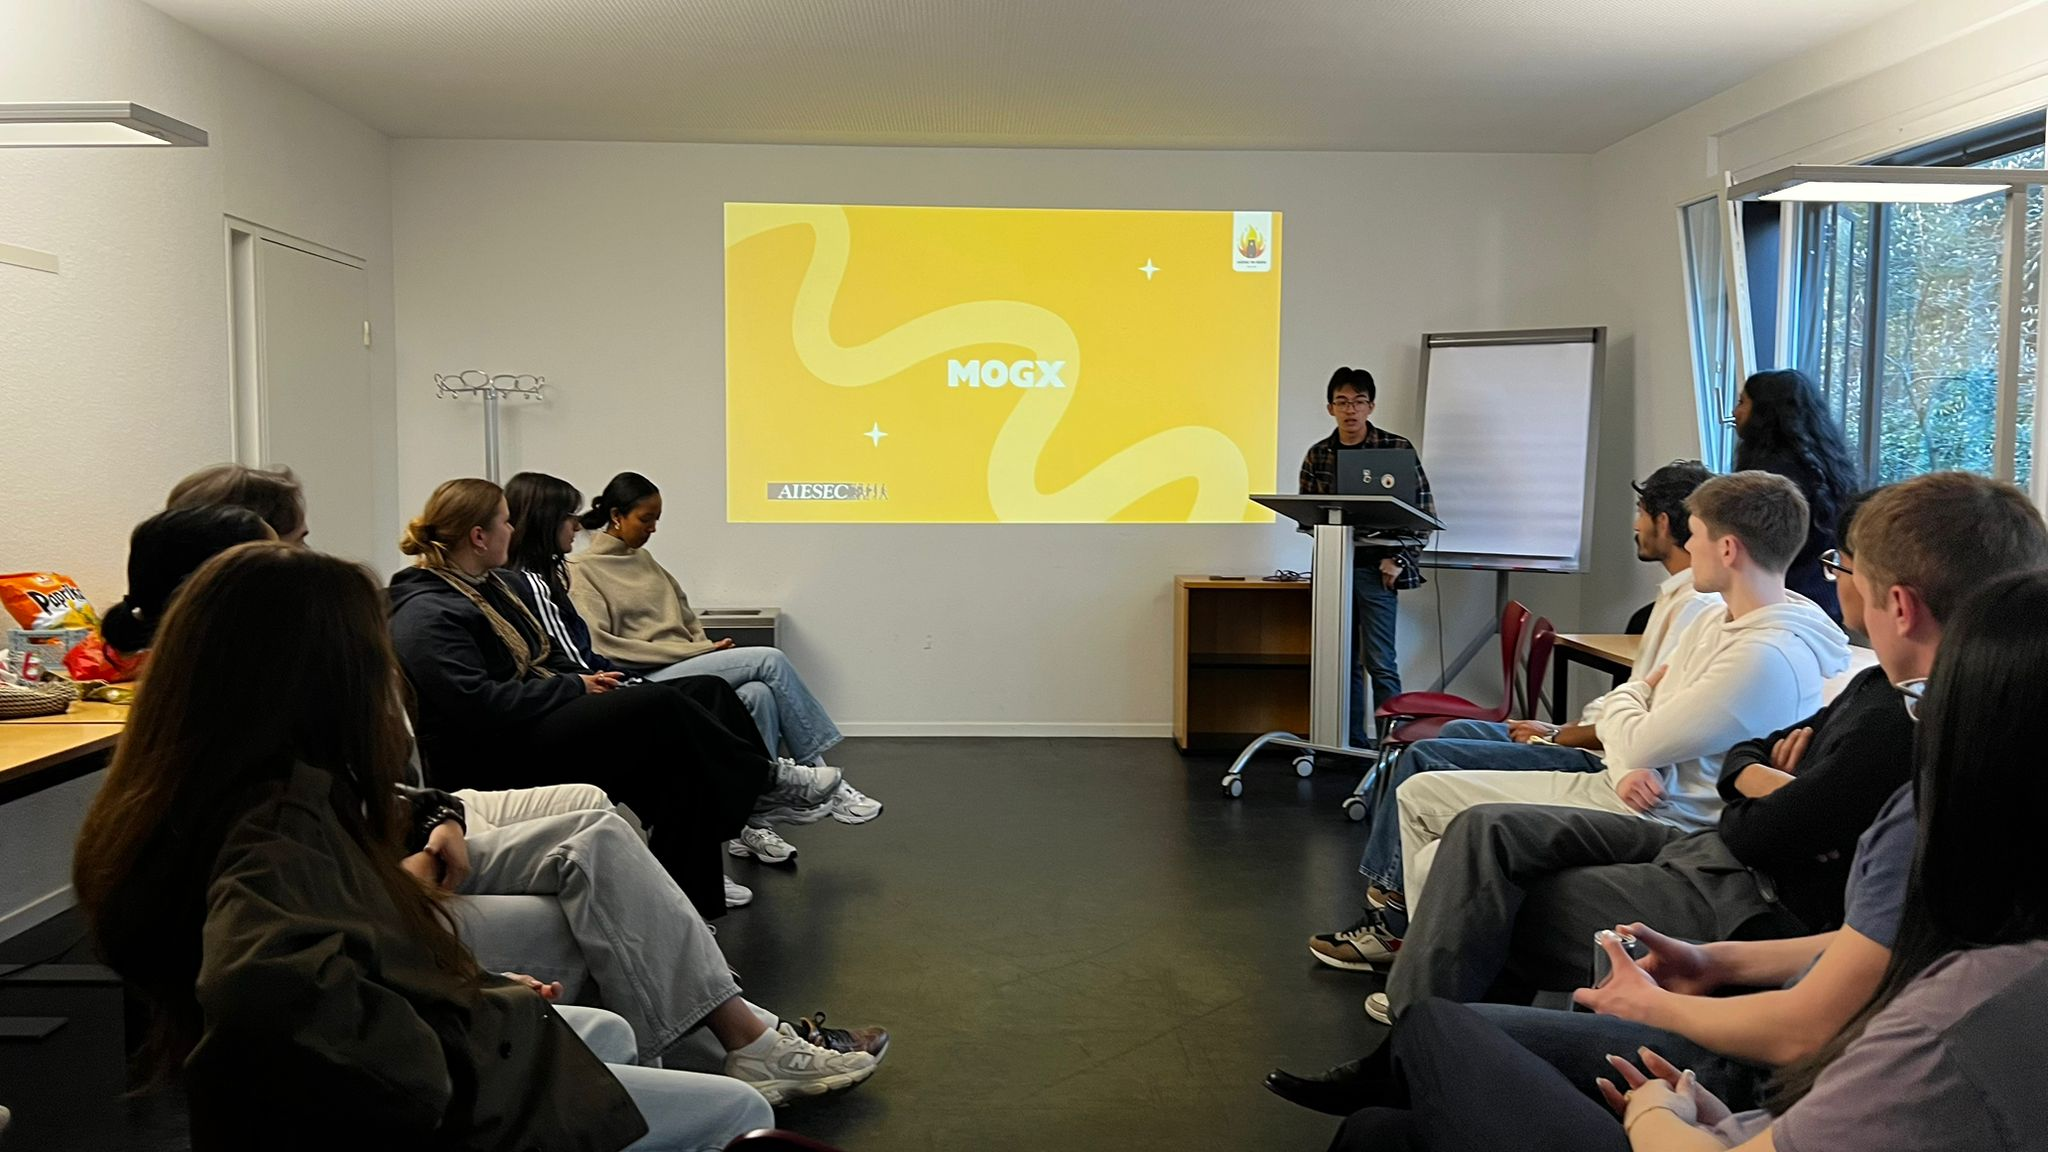
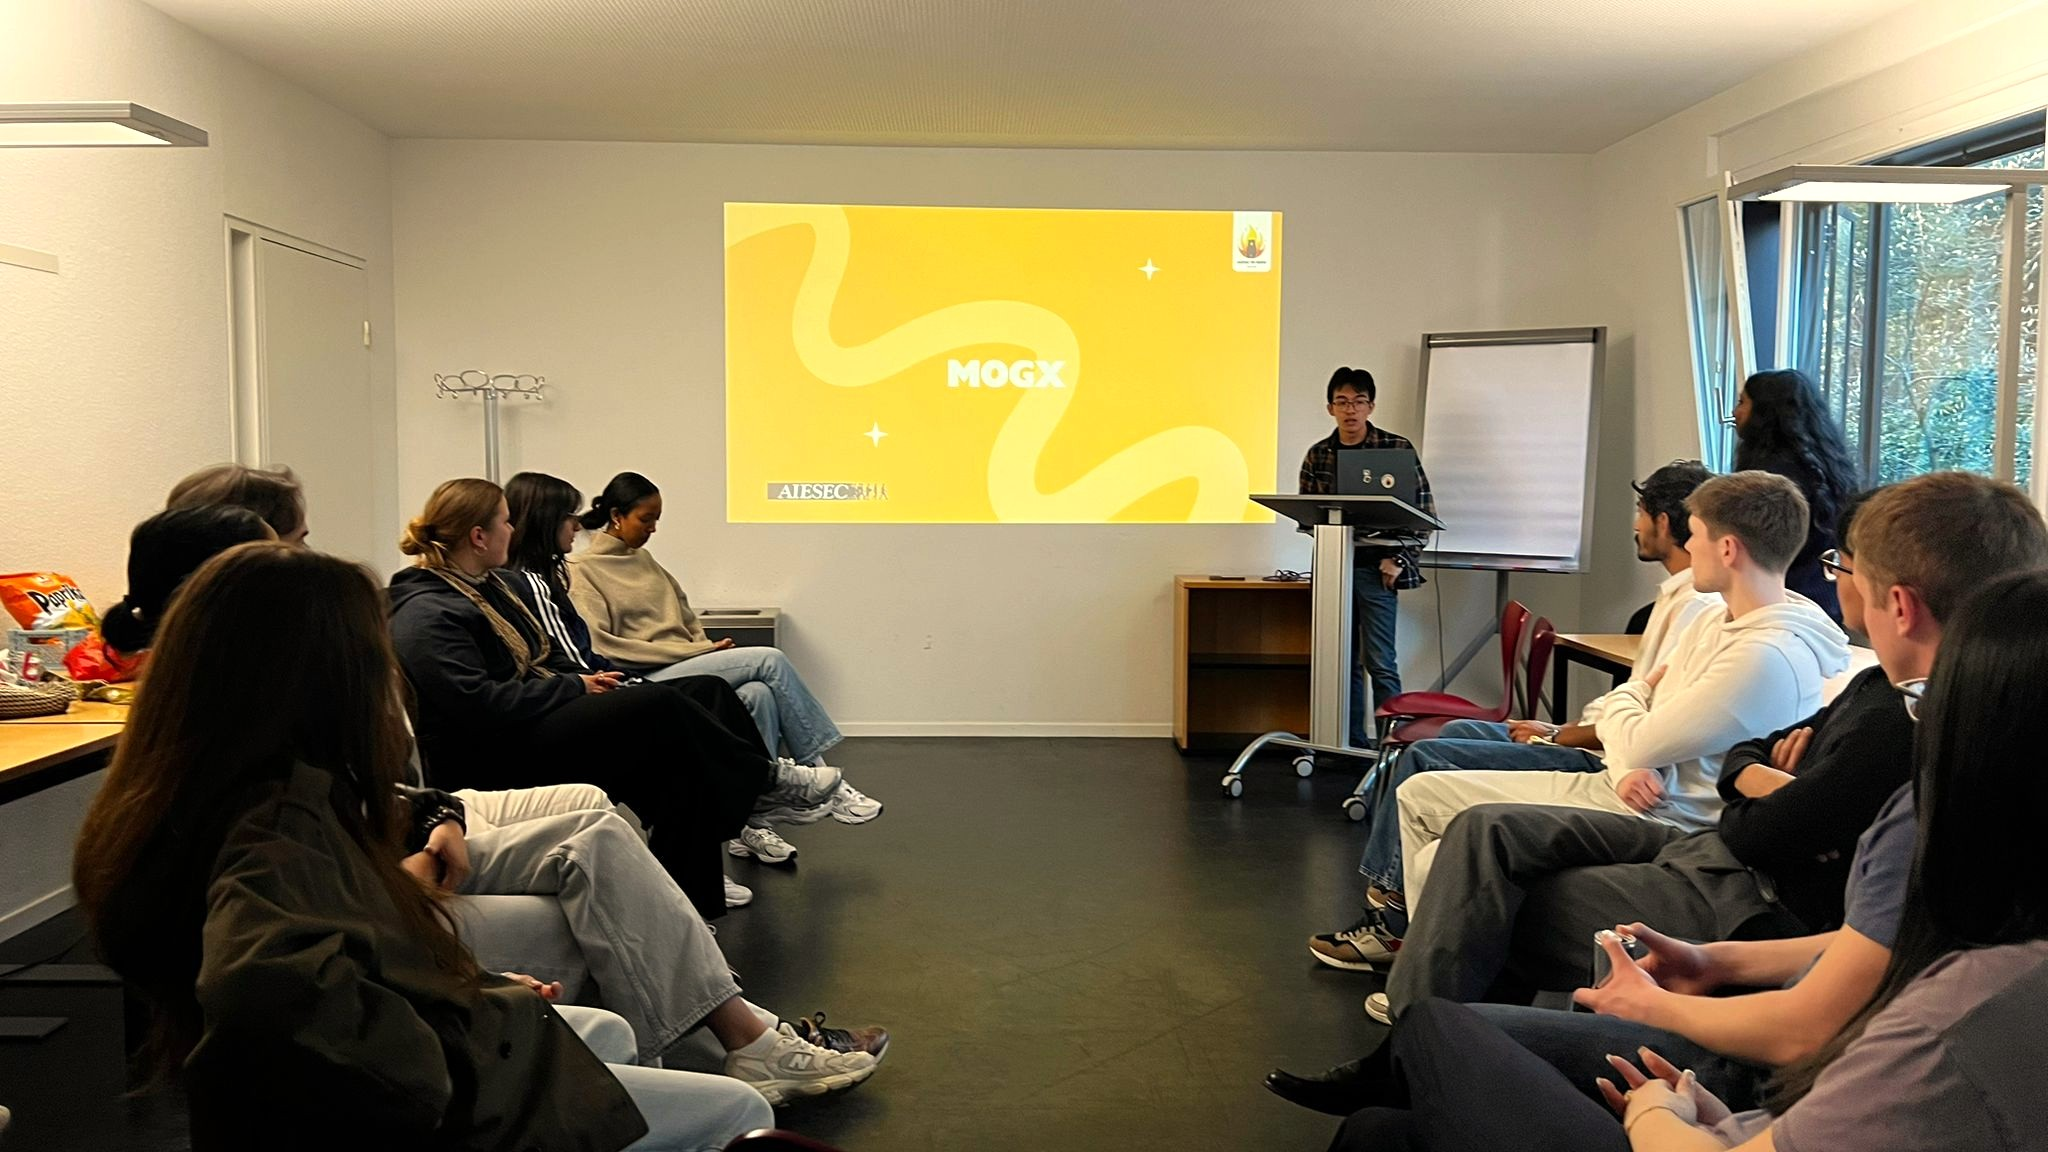
Wrote About Us page, added images.

diff --git a/about-us.html b/about-us.html
@@ -7,18 +7,27 @@ permalink: /about-us/
 <article class="page about-page container">
   <h1>About AIESEC</h1>
   <!-- PLACEHOLDER images -->
-  <img src="{{ '/assets/images/about-1-placeholder.jpg' | relative_url }}" alt="AIESEC members" class="about-image">
+  <img src="{{ '/assets/images/kick-off-6.jpg' | relative_url }}" alt="AIESEC members" class="about-image">
 
   <p>AIESEC is the world's largest youth-led organization, present in over 100 countries and territories.
   We develop leadership qualities in young people through international internships, volunteer exchanges,
   and leadership opportunities.</p>
 
-  <p>AIESEC in Bern is our local chapter, connecting students and young professionals in the Bern region
-  with global exchange opportunities and a community focused on personal growth, cultural exchange, and
-  social impact.</p>
+  <p>Here we AIESEC in Bern, the local committee connects students and young people in the Bern region
+  to the larger AIESEC network. We are a community comprised of many culturally diverse and international students.
+  We aim to build a community that provides a space for all (both local and international)
+  people to connect and develop themselves in leadership.</p>
 
-  <p>PLACEHOLDER: replace this paragraph with the moderator's own description of AIESEC in Bern's history,
-  mission, and local activities.</p>
+  <p>Within AIESEC in Bern, members are encouraged to take initiative, responsibility, and innovate.
+  You can find a place that encourages the development of skills and the qualities of a leader.
+  </p>
 
-  <img src="{{ '/assets/images/about-2-placeholder.jpg' | relative_url }}" alt="AIESEC in Bern activity" class="about-image">
+  <p>To foster intercultural understanding ,we  provide exchange opportunities to allow students to immerse themselves
+  in a completely foreign country. Surrounded by people and an environment of a different culture. 
+  </p>
+
+  <p>Locally, we host events for students in Bern that are both fun, and also practical. Come to our events to
+  make friends, widen your career network, learn about different cultures, and much more.</p>
+
+  <img src="{{ '/assets/images/trivia-night-1.png' | relative_url }}" alt="AIESEC in Bern activity" class="about-image">
 </article>

diff --git a/assets/css/main.css b/assets/css/main.css
@@ -152,7 +152,10 @@ img { max-width: 100%; display: block; }
 .card-meta { font-size: 0.85rem; color: #666; margin: 2px 0; }
 
 /* ---------- About / member grid ---------- */
-.about-image { margin: 20px 0; border-radius: 8px; }
+.about-image { 
+  margin: 20px 0; border-radius: 8px; 
+  width: 40rem;
+}
 .member-grid, .department-grid, .participate-grid {
   display: grid; grid-template-columns: repeat(4, 1fr); gap: 20px; margin-top: 20px;
 }
@@ -237,6 +240,13 @@ img { max-width: 100%; display: block; }
 .lightbox-content { background: #fff; padding: 30px; border-radius: 8px; max-width: 480px; position: relative; }
 .lightbox-close { position: absolute; top: 8px; right: 14px; background: none; border: none; font-size: 1.6rem; cursor: pointer; }
 
+/* ---------- Lightbox ---------- */
+.about-page {
+  display: flex;
+  flex-direction: column;
+  align-items: center;
+}
+
 /* ============================================================
    RESPONSIVE (mobile-first equivalents)
    ============================================================ */
@@ -273,3 +283,4 @@ img { max-width: 100%; display: block; }
   .benefit-callouts { flex-direction: column; }
   .hero-slide h1 { font-size: 1.6rem; }
 }
+
